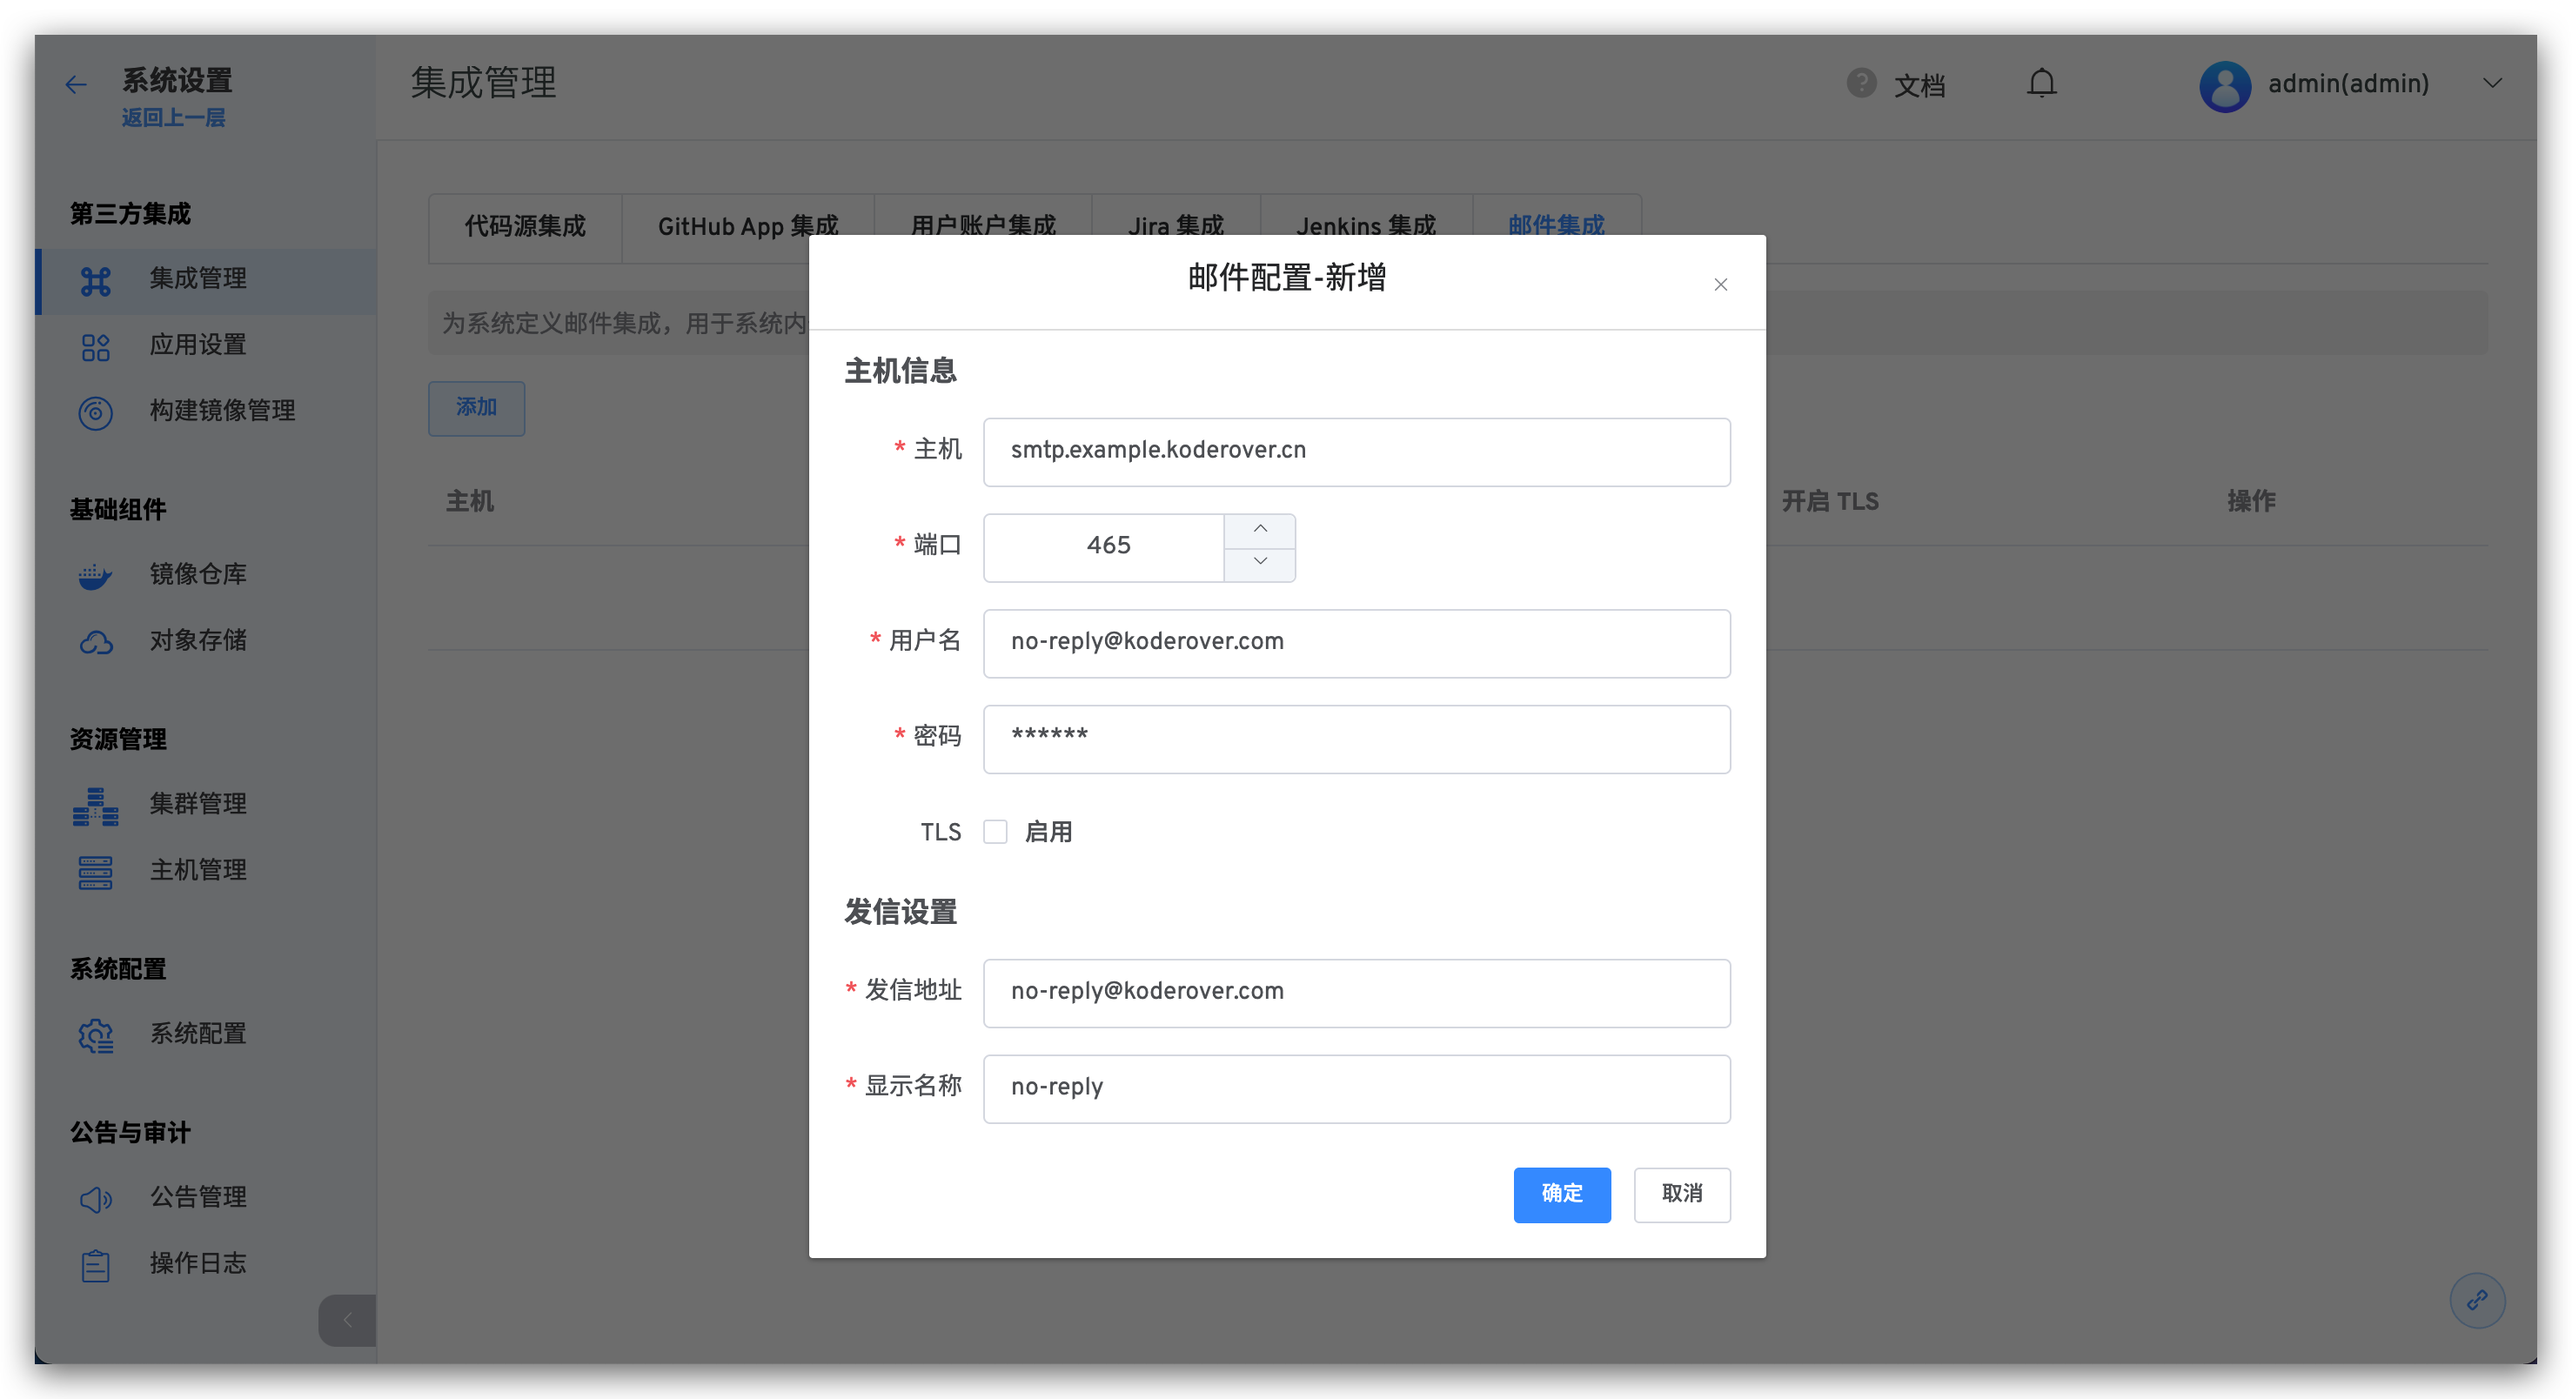
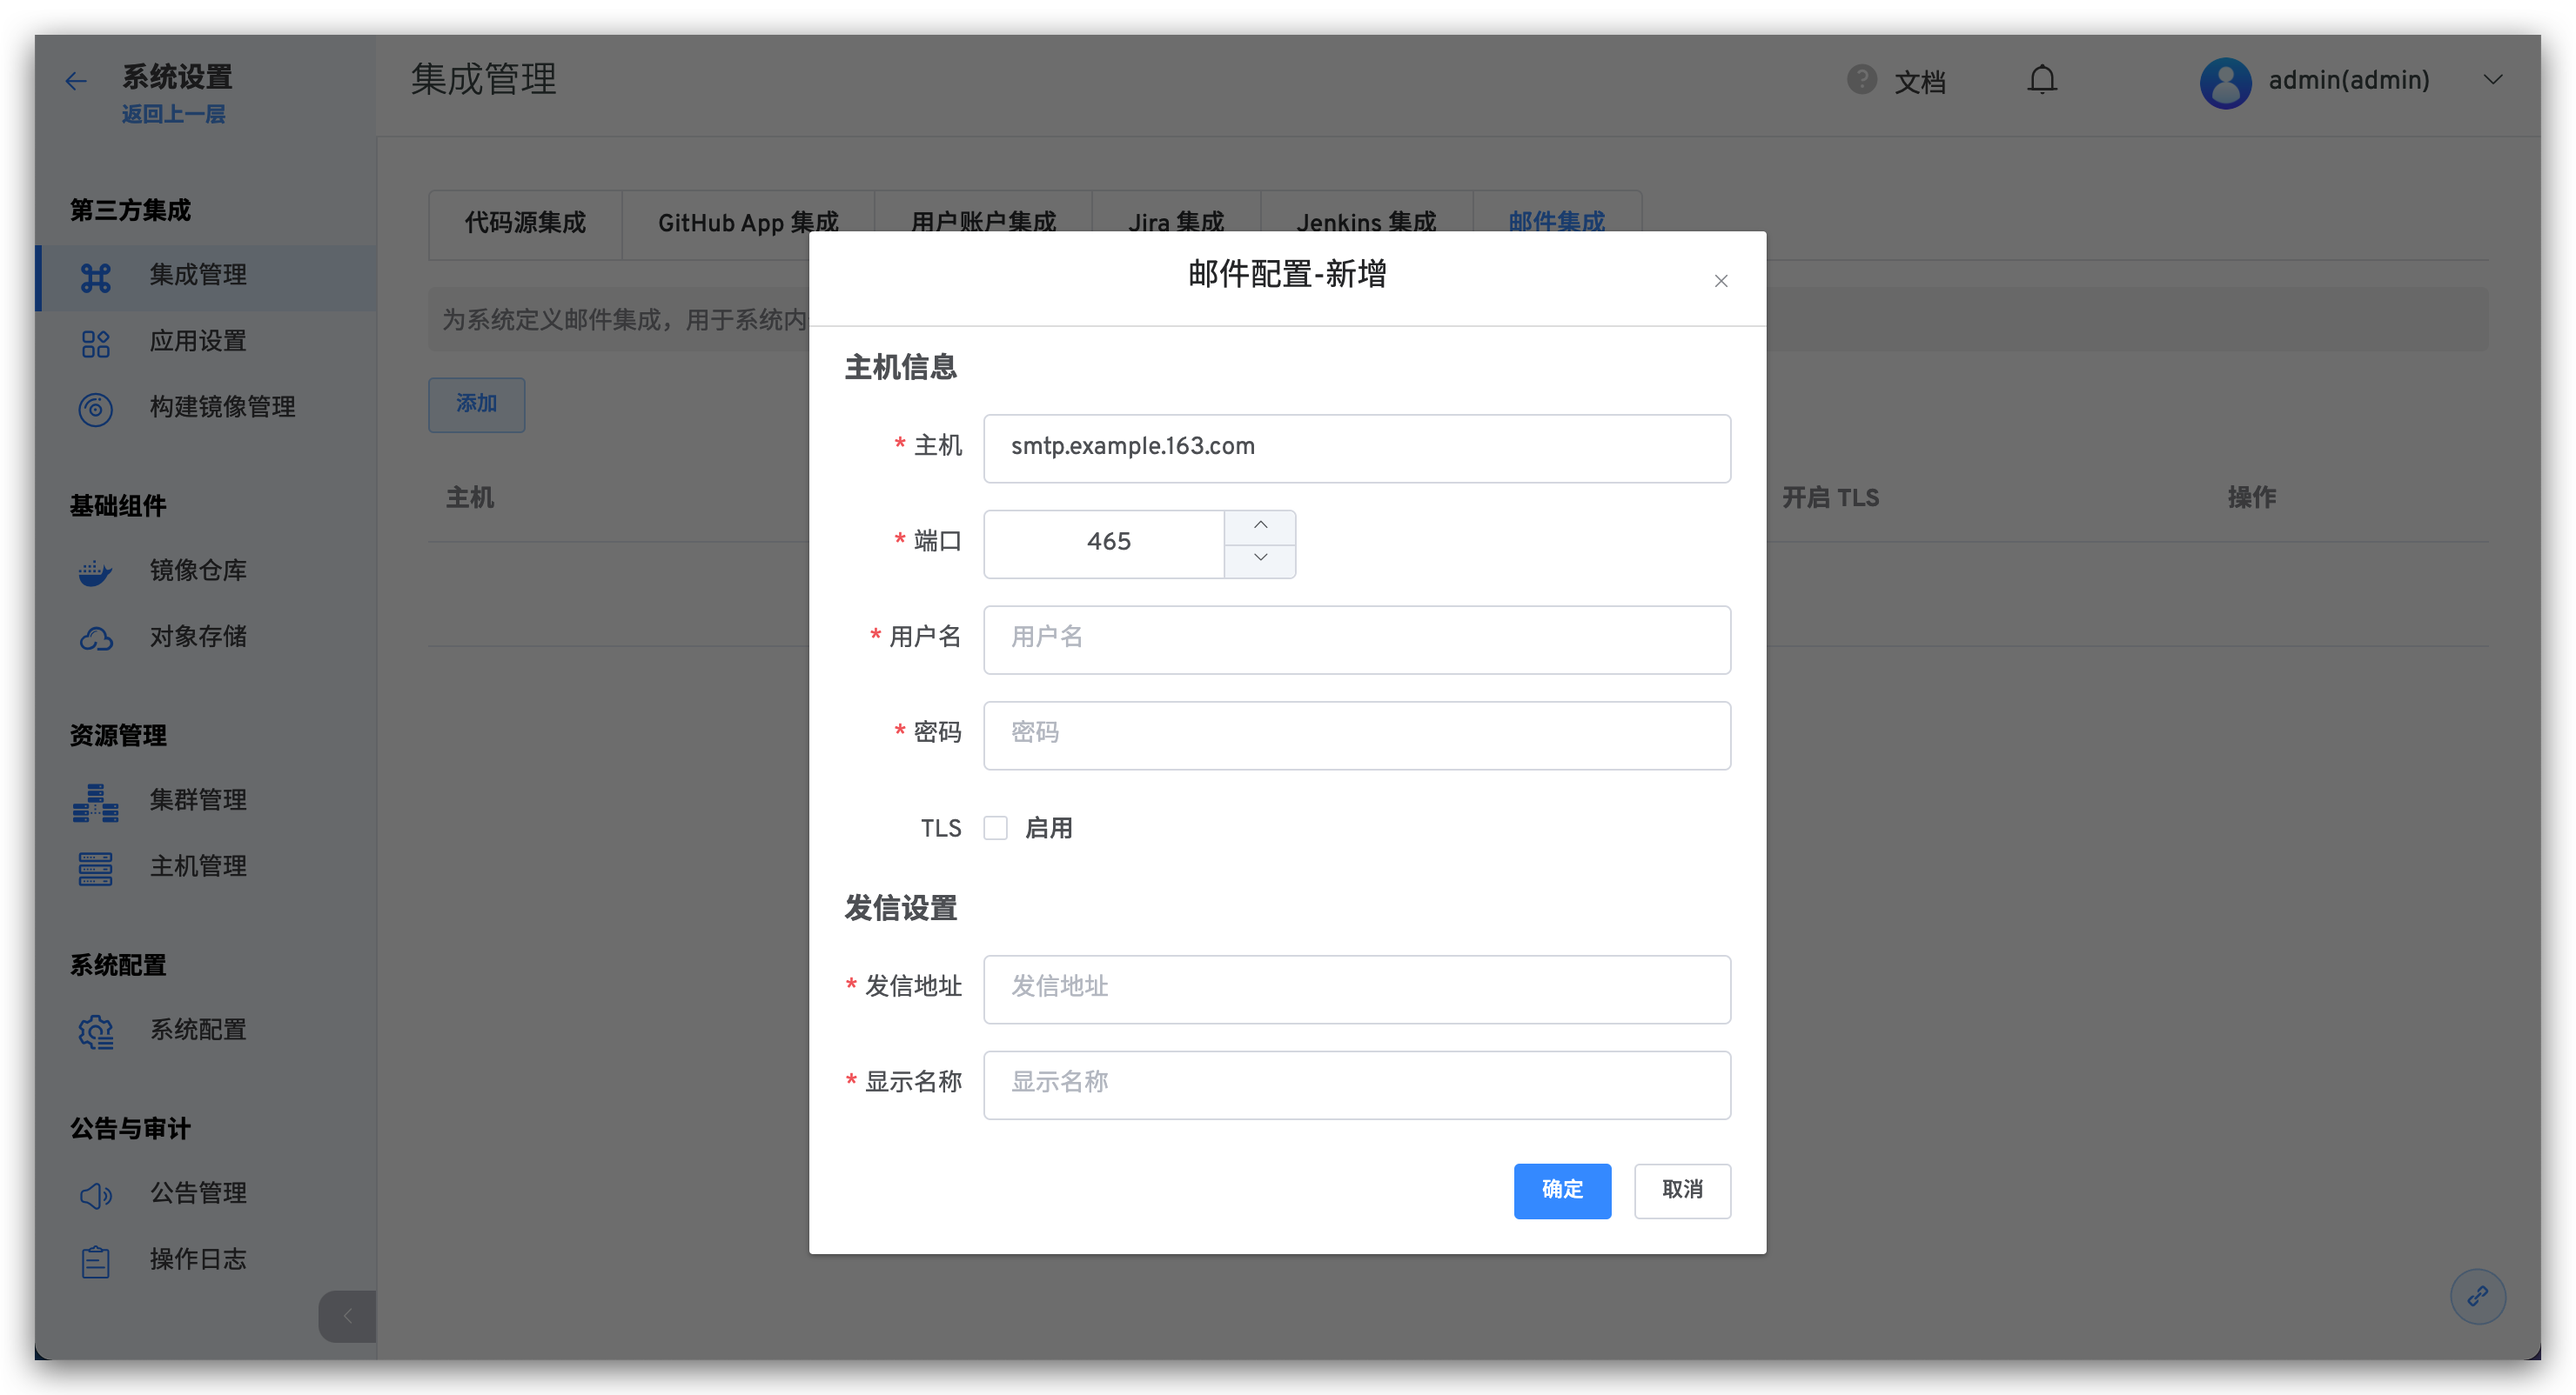
comment fix

diff --git a/zh_cn/09.系统设置/18.mail.md b/zh_cn/09.系统设置/18.mail.md
@@ -13,7 +13,7 @@ permalink: /settings/mail/
 ![mail_config](./_images/mail_config.png)
 
 主机信息参数说明：
-- `主机`：发送邮件服务器地址，比如：`smtp.example.koderover.cn`
+- `主机`：发送邮件服务器地址，比如：`smtp.example.163.com`
 - `端口`：发送邮件服务器端口号，默认为 `465`
 - `用户名`：邮箱客户端用户名，可咨询邮箱服务商
 - `密码`：邮箱客户端密码，可咨询邮箱服务商
